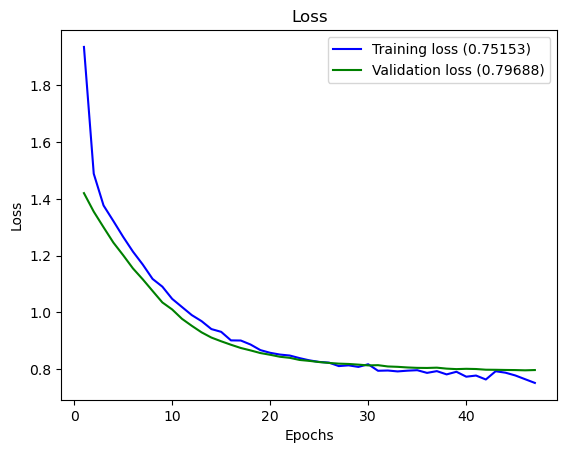
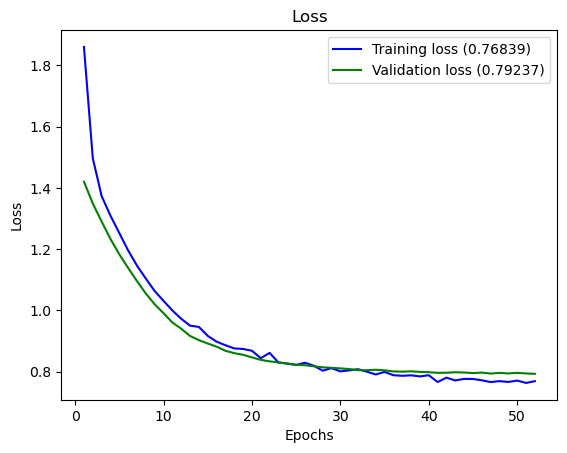
add learning curves

diff --git a/main_1.py b/main_1.py
@@ -29,7 +29,7 @@ import math as m
 import keras.backend as K
 import sklearn
 
-cur="h"
+cur="p"
 IMP_input =  "data/"+cur+".txt"
 
 def indices_to_one_hot(data,nb_classes):
